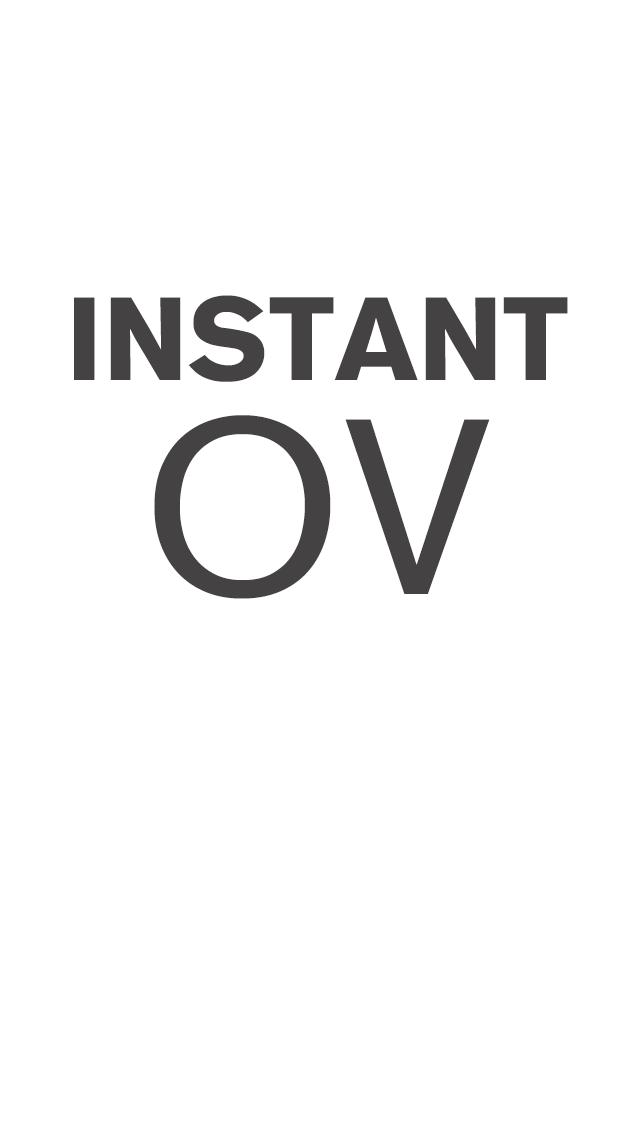
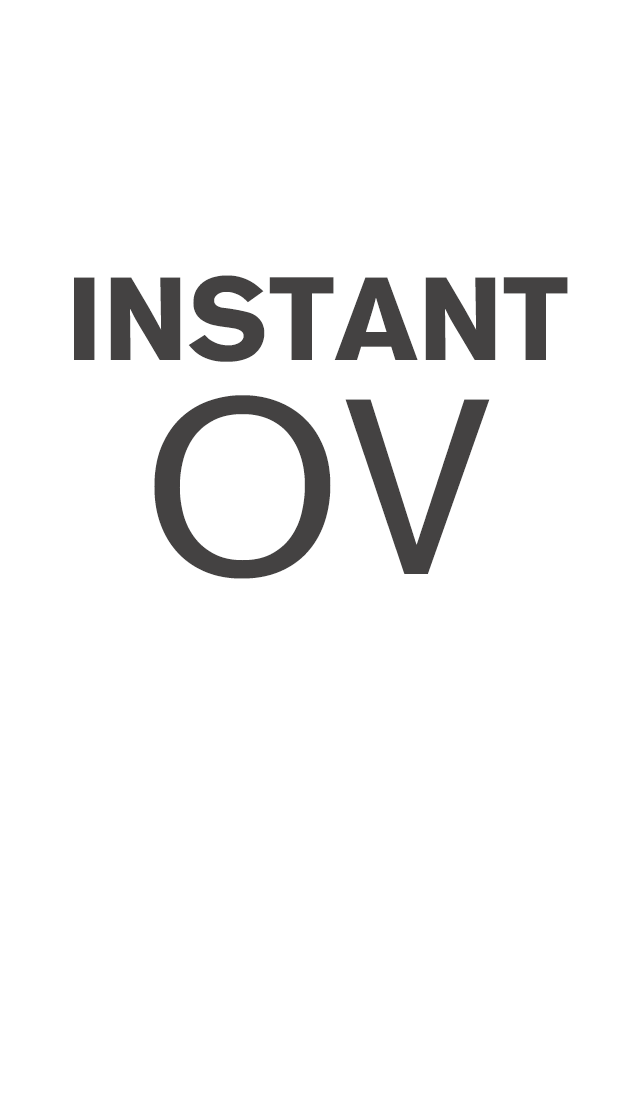
Startup screen

diff --git a/index.html b/index.html
@@ -13,10 +13,11 @@
   	<link href="css/idangerous.swiper.css?v=2" rel="stylesheet" type="text/css" />
   	<link rel="stylesheet" href="http://code.jquery.com/ui/1.10.3/themes/smoothness/jquery-ui.css">
   	<link rel="apple-touch-icon-precomposed" href="img/icon-screen.png">
-  	<link href="apple-touch-startup-image-640x1096.png"
-      media="(device-width: 320px) and (device-height: 568px)
+  	<link rel="apple-touch-startup-image"
+      media="(device-width: 320px)
+         and (device-height: 568px)
          and (-webkit-device-pixel-ratio: 2)"
-      rel="apple-touch-startup-image">
+      href="img/startup.png">
   
 </head>
 <body>
